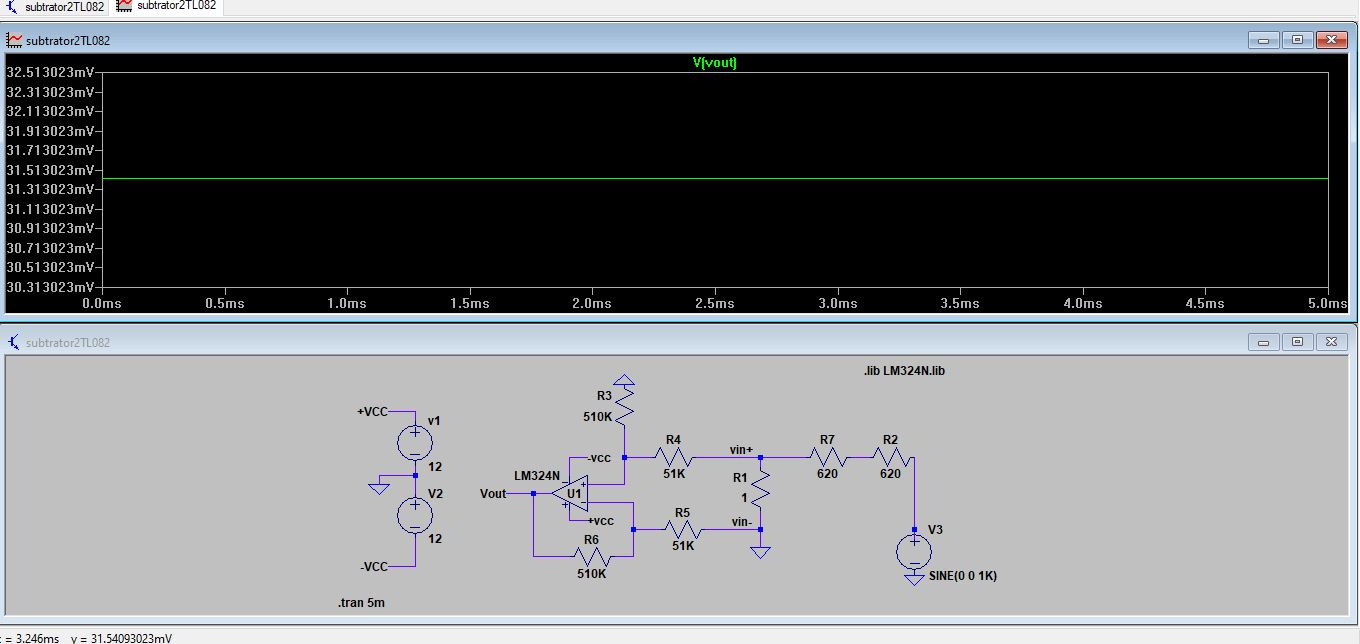
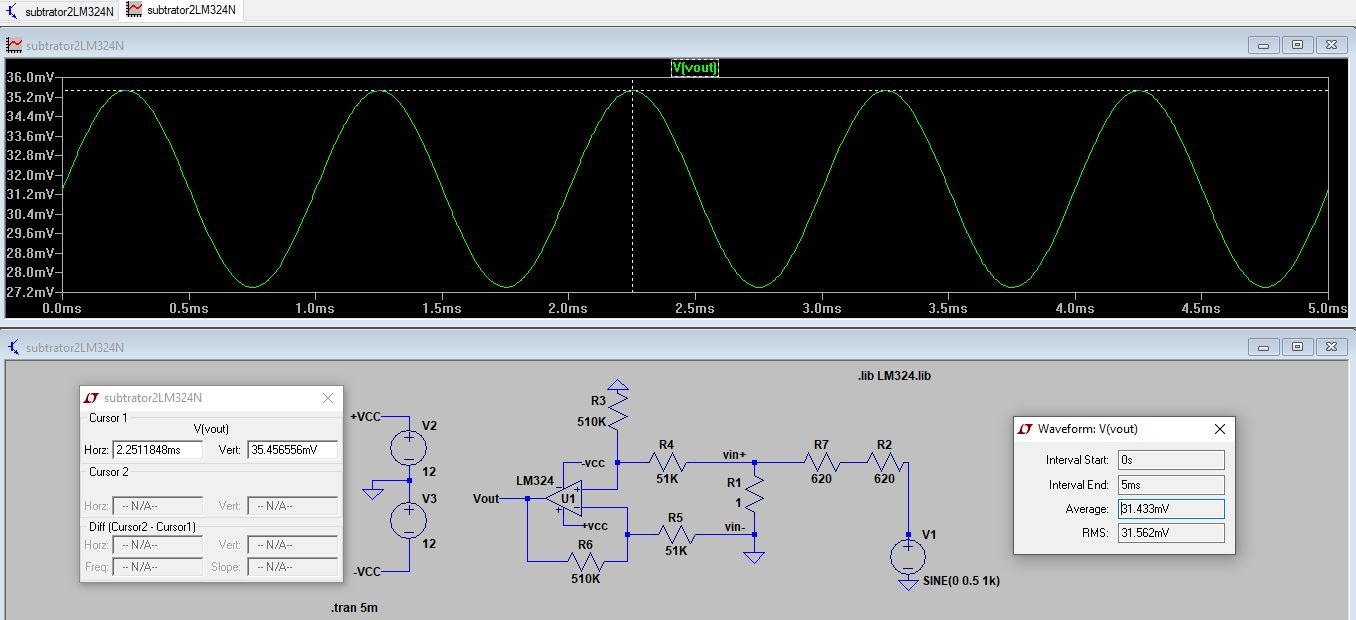
finalizar subtrator

diff --git a/Relatório 1/projeto1.md b/Relatório 1/projeto1.md
@@ -114,8 +114,8 @@ Procedimento:
 
 ## Conclusão.
 
-Com demostrado na figura o ganho esperado é de 11 unidades o que de fato se percebe na simulação do circuito.
-Mas, uma ponto importante a se expor é que o Ampop LM324 tem uma queda de tensão de aproximadamente
+Com demostrado na figura o ganho esperado é de 11 unidades o que de fato se percebe na simulação do circuito,Mas uma ponto importante a se expor é que o Ampop LM324 tem uma ganho de tensão de aproximadamente 0,021V já o TL082 tem queda de aproximadamente 0,007V.
+O valor de referencia é de 5.5 V, já que o ganho multiplica o valor de entrada de 0,5V, tais situações somente poderiam ser comprovadas na prática.
 
 
 
